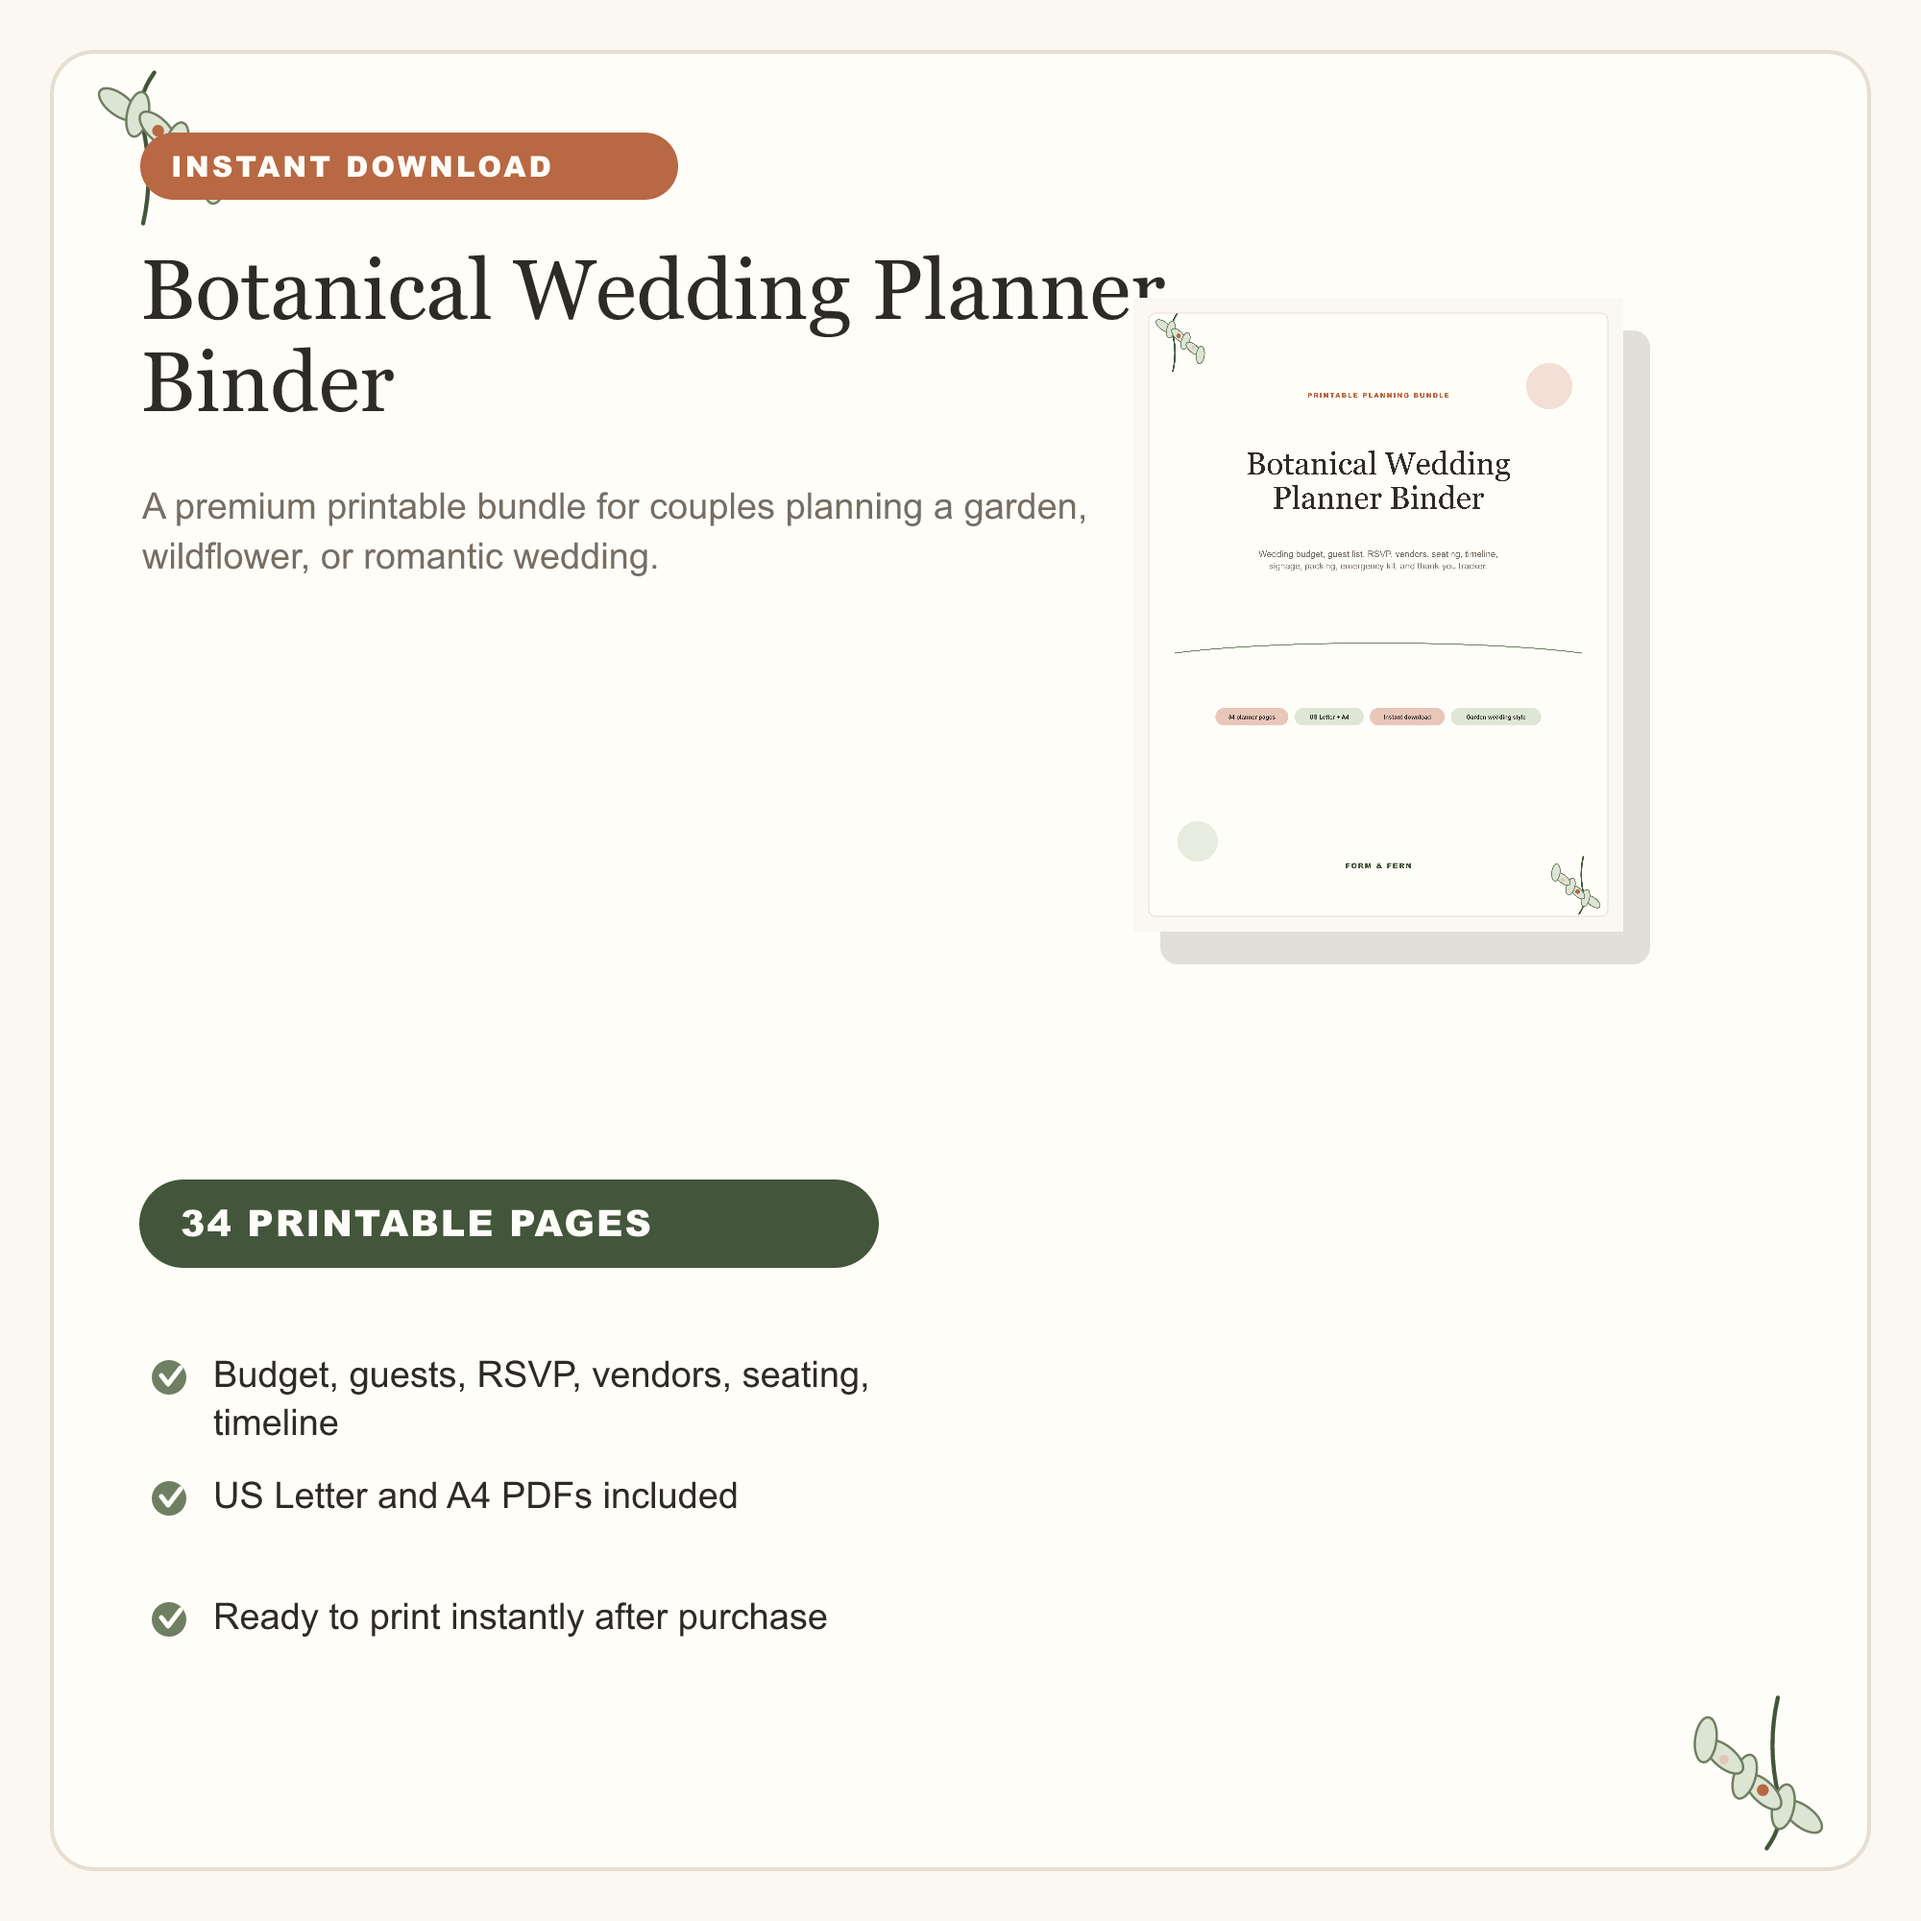
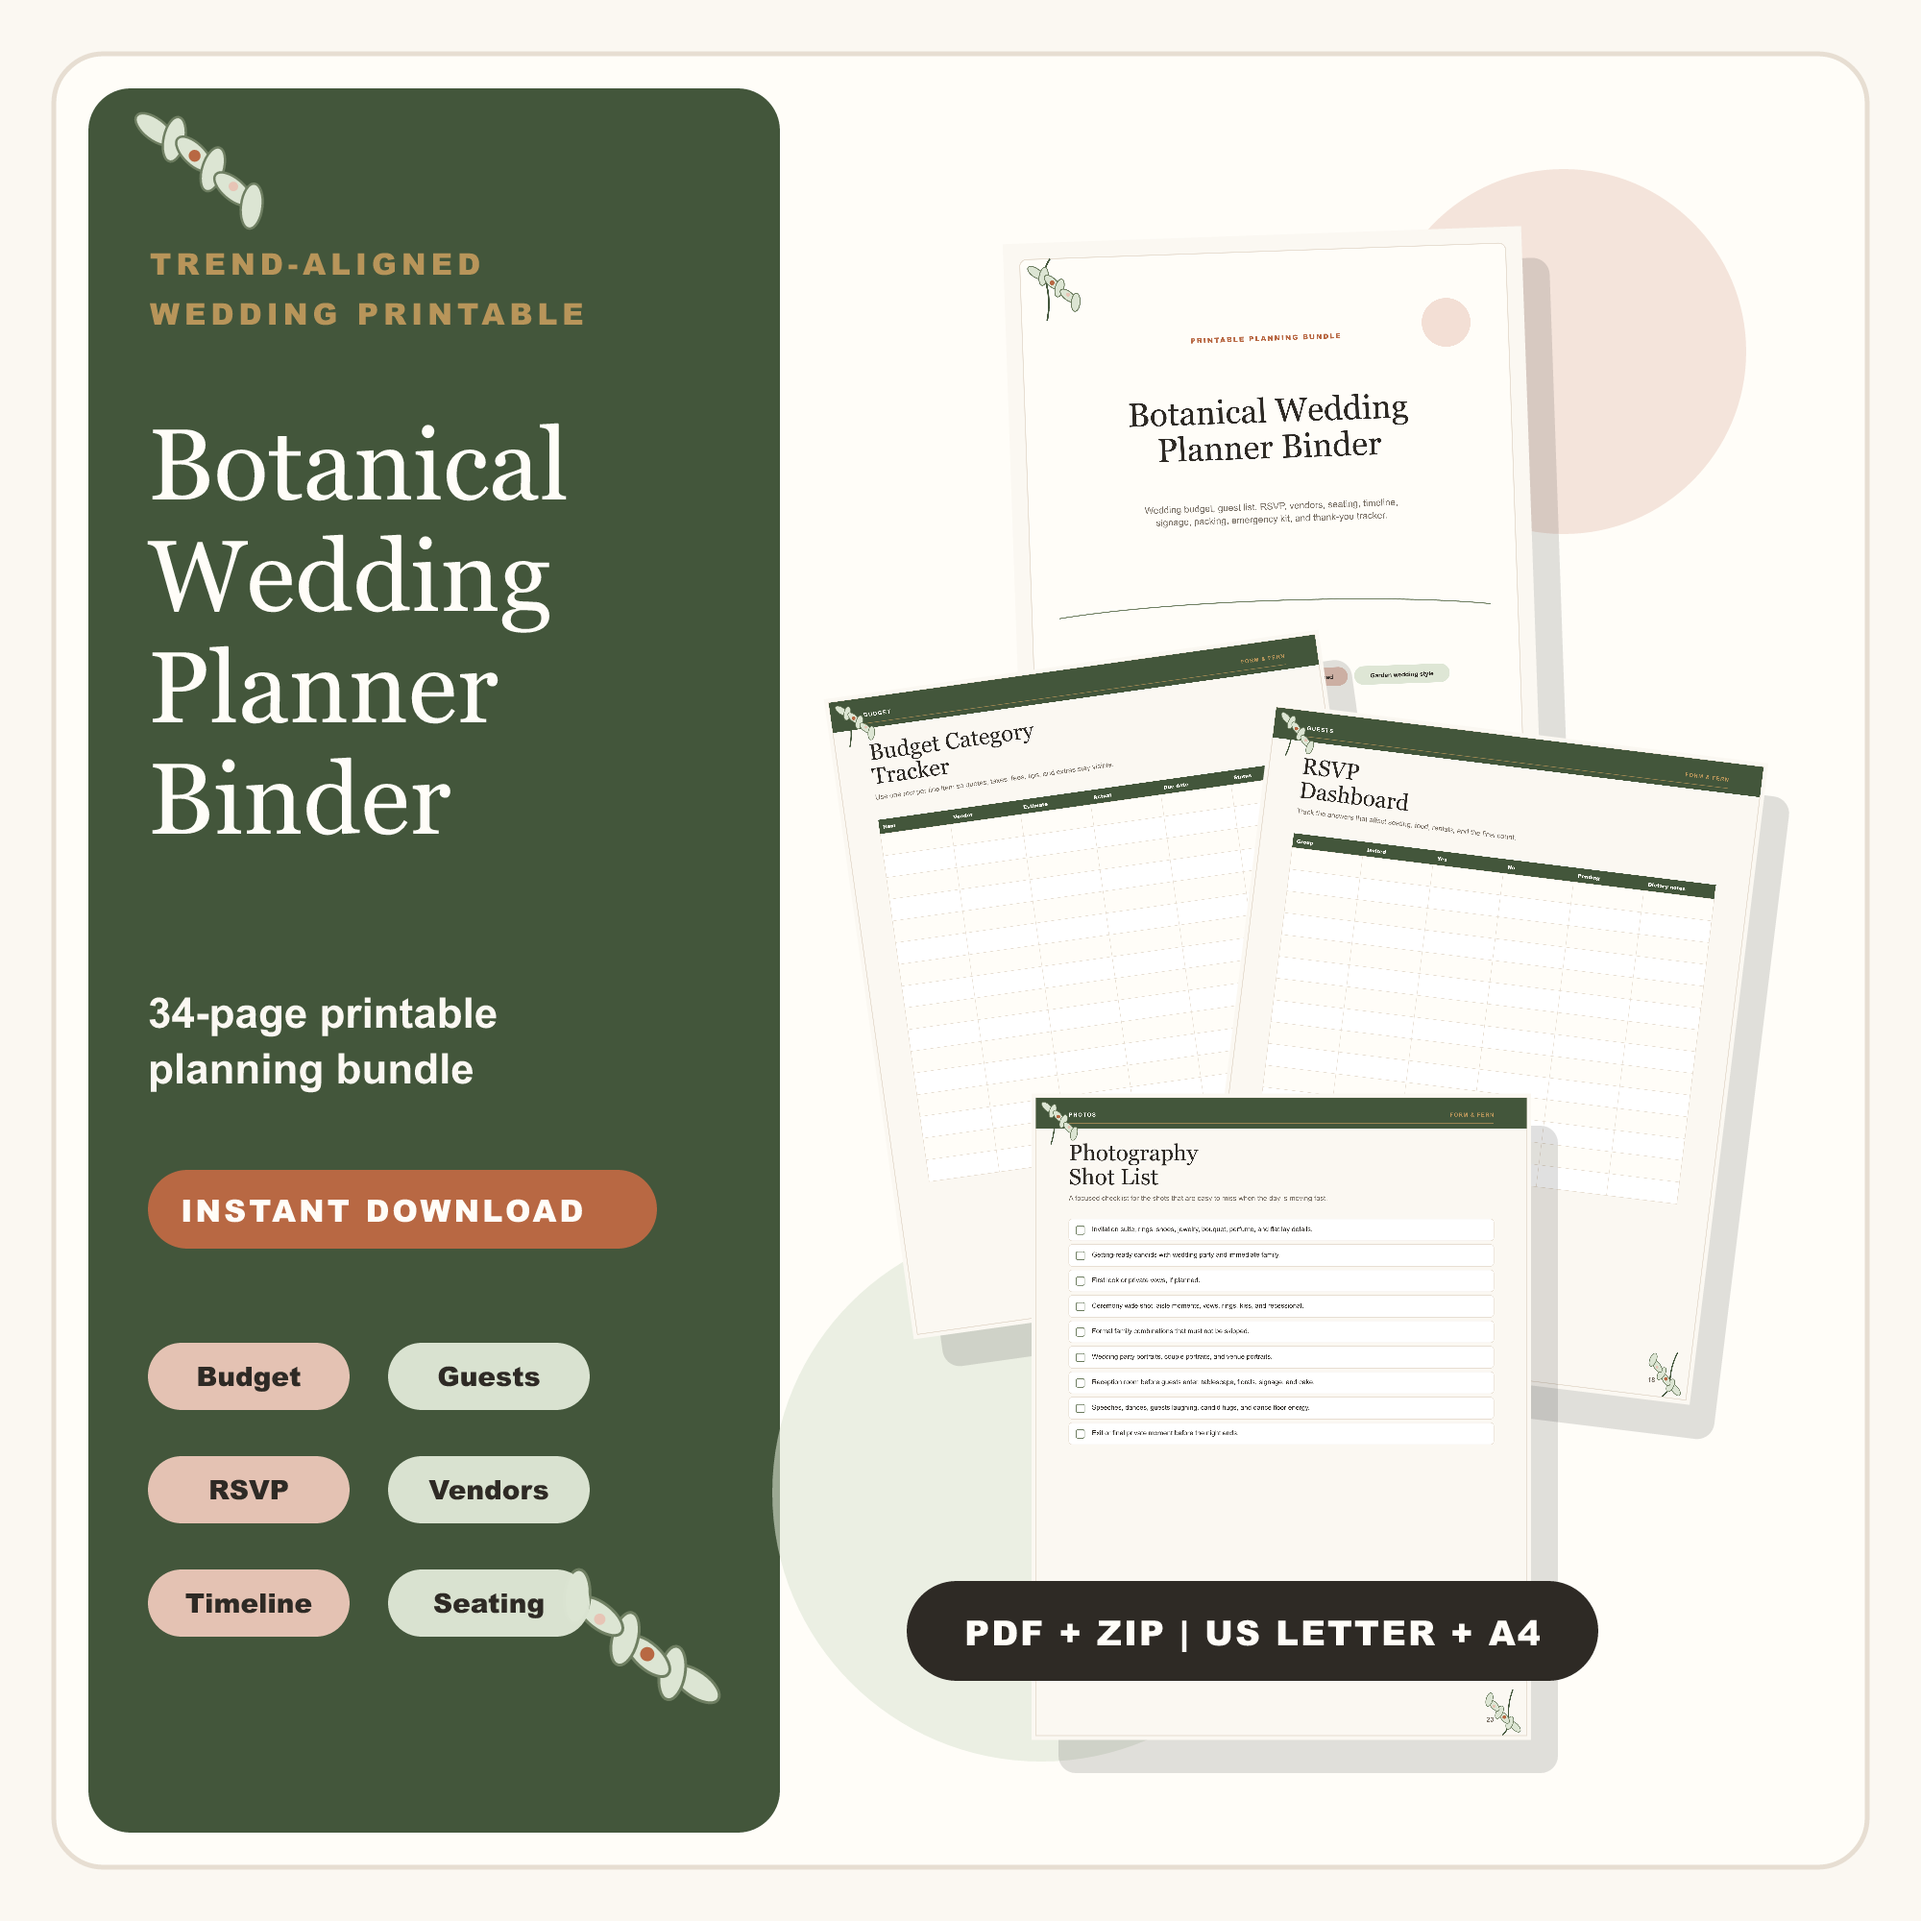
Improve botanical wedding listing mockups

diff --git a/scripts/build-botanical-wedding-planner.ts b/scripts/build-botanical-wedding-planner.ts
@@ -793,6 +793,78 @@ function pageMockup(buffer: Buffer, x: number, y: number, w: number, h: number, 
   </g>`;
 }
 
+function premiumHeroListingSvg(cover: Buffer, budget: Buffer, guest: Buffer, timeline: Buffer): string {
+  return `<svg xmlns="http://www.w3.org/2000/svg" width="2000" height="2000" viewBox="0 0 2000 2000">
+    <rect width="2000" height="2000" fill="${COLORS.ivory}"/>
+    <rect x="56" y="56" width="1888" height="1888" rx="52" fill="${COLORS.paper}" stroke="${COLORS.line}" stroke-width="5"/>
+    <rect x="92" y="92" width="720" height="1816" rx="44" fill="${COLORS.sageDark}"/>
+    <circle cx="1628" cy="366" r="190" fill="${COLORS.blush}" opacity="0.44"/>
+    <circle cx="1084" cy="1554" r="280" fill="${COLORS.sageLight}" opacity="0.58"/>
+    ${botanicalSprig(142, 120, 0.62, -18)}
+    ${botanicalSprig(748, 1770, 0.74, 160)}
+    ${textBlock({ text: "TREND-ALIGNED\nWEDDING PRINTABLE", x: 156, y: 286, size: 31, fill: COLORS.gold, family: SANS, weight: 800, uppercase: true, letterSpacing: 5, lineHeight: 52 })}
+    ${textBlock({ text: "Botanical\nWedding\nPlanner\nBinder", x: 154, y: 520, size: 105, fill: COLORS.paper, family: SERIF, lineHeight: 116 })}
+    ${textBlock({ text: "34-page printable planning bundle", x: 154, y: 1070, size: 44, fill: COLORS.ivory, family: SANS, weight: 700, maxChars: 25, lineHeight: 58 })}
+    <rect x="154" y="1218" width="530" height="82" rx="41" fill="${COLORS.terracotta}"/>
+    ${textBlock({ text: "INSTANT DOWNLOAD", x: 188, y: 1272, size: 32, fill: COLORS.paper, family: SANS, weight: 900, uppercase: true, letterSpacing: 3 })}
+    ${["Budget", "Guests", "RSVP", "Vendors", "Timeline", "Seating"]
+      .map((label, index) => {
+        const col = index % 2;
+        const row = Math.floor(index / 2);
+        const x = 154 + col * 250;
+        const y = 1398 + row * 118;
+        return `<rect x="${x}" y="${y}" width="210" height="70" rx="35" fill="${index % 2 ? COLORS.sageLight : COLORS.blush}" opacity="0.98"/>
+        ${textBlock({ text: label, x: x + 105, y: y + 45, size: 28, fill: COLORS.ink, family: SANS, weight: 800, anchor: "middle" })}`;
+      })
+      .join("")}
+    ${pageMockup(cover, 1056, 244, 540, 700, -2)}
+    ${pageMockup(budget, 902, 688, 520, 674, -8)}
+    ${pageMockup(guest, 1282, 760, 520, 674, 7)}
+    ${pageMockup(timeline, 1074, 1138, 520, 674, 0)}
+    <rect x="944" y="1646" width="720" height="104" rx="52" fill="${COLORS.ink}"/>
+    ${textBlock({ text: "PDF + ZIP | US LETTER + A4", x: 1304, y: 1713, size: 36, fill: COLORS.paper, family: SANS, weight: 900, anchor: "middle", letterSpacing: 2 })}
+  </svg>`;
+}
+
+function openBinderListingSvg(budget: Buffer, guest: Buffer, vendor: Buffer, timeline: Buffer): string {
+  const ringYs = [760, 910, 1060, 1210, 1360];
+  return `<svg xmlns="http://www.w3.org/2000/svg" width="2000" height="2000" viewBox="0 0 2000 2000">
+    <rect width="2000" height="2000" fill="${COLORS.ivory}"/>
+    <rect x="54" y="54" width="1892" height="1892" rx="48" fill="${COLORS.paper}" stroke="${COLORS.line}" stroke-width="5"/>
+    ${botanicalSprig(92, 72, 0.46, -18)}
+    ${textBlock({ text: "OPEN BINDER PREVIEW", x: 216, y: 190, size: 32, fill: COLORS.terracotta, family: SANS, weight: 900, uppercase: true, letterSpacing: 5 })}
+    ${textBlock({ text: "See The Actual Planner Pages", x: 154, y: 322, size: 82, fill: COLORS.ink, family: SERIF, maxChars: 34, lineHeight: 92 })}
+    ${textBlock({ text: "A different view from the cover: budget, RSVP, vendor, and day-of pages shown as an open planning binder.", x: 156, y: 460, size: 35, fill: COLORS.muted, family: SANS, maxChars: 78, lineHeight: 48 })}
+    <rect x="172" y="620" width="1656" height="1030" rx="46" fill="#000000" opacity="0.10"/>
+    <rect x="140" y="584" width="1720" height="1030" rx="50" fill="${COLORS.sageLight}" stroke="${COLORS.line}" stroke-width="5"/>
+    <rect x="204" y="642" width="760" height="914" rx="22" fill="${COLORS.panel}" stroke="${COLORS.line}" stroke-width="4"/>
+    <rect x="1036" y="642" width="760" height="914" rx="22" fill="${COLORS.panel}" stroke="${COLORS.line}" stroke-width="4"/>
+    <rect x="966" y="610" width="68" height="972" rx="34" fill="${COLORS.sageDark}"/>
+    ${ringYs
+      .map(
+        (y) =>
+          `<ellipse cx="1000" cy="${y}" rx="68" ry="28" fill="none" stroke="${COLORS.gold}" stroke-width="8"/>
+          <ellipse cx="1000" cy="${y}" rx="38" ry="13" fill="none" stroke="${COLORS.paper}" stroke-width="5"/>`,
+      )
+      .join("")}
+    ${pageMockup(budget, 254, 706, 330, 428, 0)}
+    ${pageMockup(guest, 600, 706, 330, 428, 0)}
+    ${pageMockup(vendor, 1070, 706, 330, 428, 0)}
+    ${pageMockup(timeline, 1416, 706, 330, 428, 0)}
+    ${textBlock({ text: "Left side", x: 250, y: 1286, size: 28, fill: COLORS.terracotta, family: SANS, weight: 900, uppercase: true, letterSpacing: 2 })}
+    ${textBlock({ text: "Budget + RSVP trackers", x: 250, y: 1352, size: 44, fill: COLORS.ink, family: SERIF, maxChars: 24 })}
+    ${textBlock({ text: "Right side", x: 1070, y: 1286, size: 28, fill: COLORS.terracotta, family: SANS, weight: 900, uppercase: true, letterSpacing: 2 })}
+    ${textBlock({ text: "Vendor + timeline pages", x: 1070, y: 1352, size: 44, fill: COLORS.ink, family: SERIF, maxChars: 24 })}
+    ${["Cohesive binder style", "Useful beyond week one", "Buyer-ready bundle"]
+      .map((label, index) => {
+        const x = 244 + index * 520;
+        return `<rect x="${x}" y="1728" width="430" height="92" rx="46" fill="${index === 1 ? COLORS.blush : COLORS.sageLight}" stroke="${COLORS.line}" stroke-width="3"/>
+        ${textBlock({ text: label, x: x + 215, y: 1787, size: 33, fill: COLORS.ink, family: SANS, weight: 900, anchor: "middle" })}`;
+      })
+      .join("")}
+  </svg>`;
+}
+
 function bulletList(items: string[], x: number, y: number, maxChars = 43): string {
   return items
     .map((item, index) => {
@@ -830,27 +902,11 @@ function renderListingImages(letterPages: Buffer[]): Array<{ name: string; buffe
   const svgs = [
     {
       name: "01_cover.png",
-      svg: listingShell(
-        "Botanical Wedding Planner Binder",
-        "A premium printable bundle for couples planning a garden, wildflower, or romantic wedding.",
-        `${pageMockup(cover, 1180, 310, 510, 660, 0)}
-        <rect x="145" y="1228" width="770" height="92" rx="46" fill="${COLORS.sageDark}"/>
-        ${textBlock({ text: "34 printable pages", x: 188, y: 1287, size: 38, fill: COLORS.paper, family: SANS, weight: 800, uppercase: true, letterSpacing: 2 })}
-        ${bulletList(["Budget, guests, RSVP, vendors, seating, timeline", "US Letter and A4 PDFs included", "Ready to print instantly after purchase"], 176, 1444, 40)}`,
-        "Instant download",
-      ),
+      svg: premiumHeroListingSvg(cover, budget, guest, timeline),
     },
     {
       name: "02_binder_preview.png",
-      svg: listingShell(
-        "Looks Like A Real Planning Binder",
-        "Clean pages, soft botanical styling, and enough structure to feel complete without overwhelming the bride.",
-        `${pageMockup(checklist, 1120, 316, 460, 596, -5)}
-        ${pageMockup(budget, 1340, 438, 460, 596, 5)}
-        ${pageMockup(guest, 1236, 706, 460, 596, 0)}
-        ${bulletList(["Countdown pages for every planning phase", "Trackers for money, people, vendors, and timing", "Polished enough to gift or keep in a wedding folder"], 176, 1280, 42)}`,
-        "High perceived value",
-      ),
+      svg: openBinderListingSvg(budget, guest, vendor, timeline),
     },
     {
       name: "03_whats_included.png",
